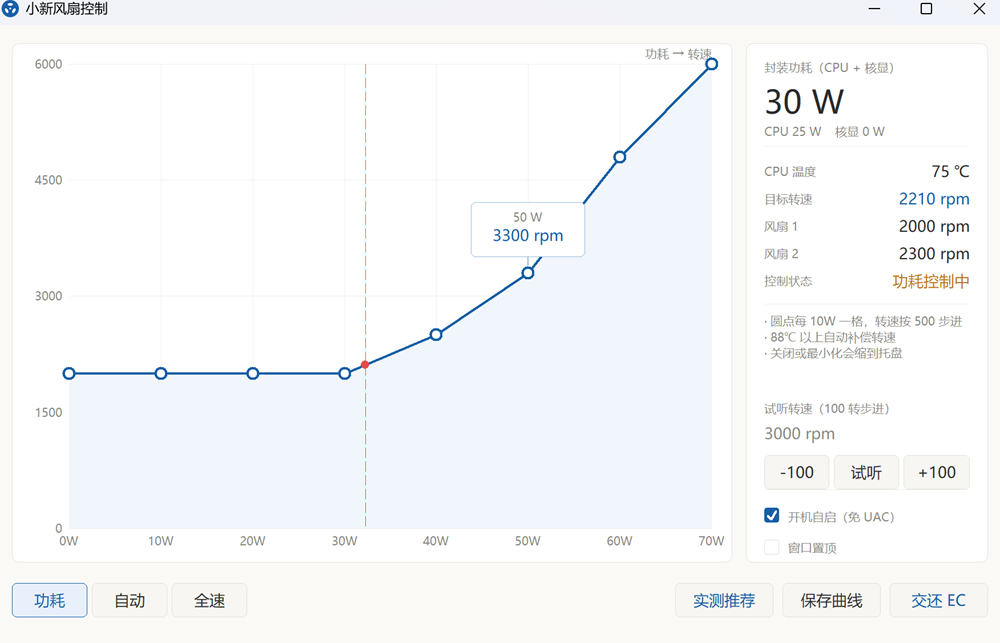
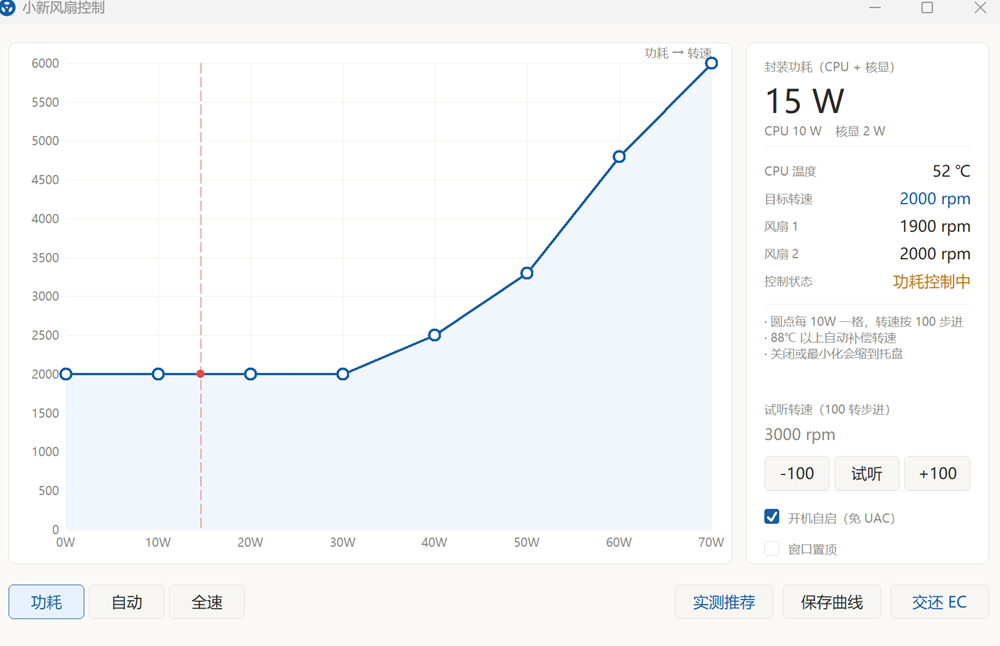
fix: 转速刻度改 500 一格，拖动吸附改 100 一转
之前把两者搞反了：刻度是 1500 一档，吸附却是 500。

- Y 轴从 0/1500/3000/4500/6000 改成每 500 一格，共 13 档，
  对着刻度就能读出大致位置，不用估
- 拖动吸附从 500 改成 100，曲线点可以落在任意百位，
  微调时不再被 500 的台阶卡住
- 旧配置迁移同步改为按 100 吸附
- 界面提示文案与 README 一并更新

验证：40W 点拖到 1203 rpm 的位置，保存后写盘为 1200（若仍是 500 吸附会是 1000）。

diff --git a/src/main.cpp b/src/main.cpp
@@ -111,8 +111,8 @@ static int RpmFromY(int y) {
     int h = L.plot.bottom - L.plot.top;
     if (h <= 0) return 0;
     double v = (double)(L.plot.bottom - y) / h * kRpmMax;
-    // 按 500 转吸附，拖出来的曲线数值都是整百
-    int rpm = (int)(v / 500.0 + 0.5) * 500;
+    // 按 100 转吸附，微调时不用再跟 500 的台阶较劲
+    int rpm = (int)(v / 100.0 + 0.5) * 100;
     if (rpm < 0) rpm = 0;
     if (rpm > kRpmMax) rpm = kRpmMax;
     return rpm;
@@ -211,13 +211,12 @@ static void DrawCurveCard(HDC dc) {
                 L.card.right - S(18), L.card.top + S(16) };
     Text(dc, L"功耗 → 转速", rt, g_fSmall, C_MUTED, DT_RIGHT | DT_TOP | DT_SINGLELINE);
 
-    // Y 轴转速刻度
-    const int rpms[5] = { 0, 1500, 3000, 4500, 6000 };
-    for (int i = 0; i < 5; i++) {
-        int y = PlotY(rpms[i]);
+    // Y 轴转速刻度：500 一格，方便按 100 微调时读位置
+    for (int rpm = 0; rpm <= kRpmMax; rpm += 500) {
+        int y = PlotY(rpm);
         HLine(dc, L.plot.left, L.plot.right, y, C_GRID);
         wchar_t buf[16];
-        swprintf_s(buf, L"%d", rpms[i]);
+        swprintf_s(buf, L"%d", rpm);
         RECT r = { L.card.left + S(6), y - S(8), L.plot.left - S(6), y + S(8) };
         Text(dc, buf, r, g_fSmall, C_MUTED, DT_RIGHT | DT_VCENTER | DT_SINGLELINE);
     }
@@ -418,7 +417,7 @@ static void DrawRightPanel(HDC dc) {
     HLine(dc, x, x + w, y, C_GRID);
     y += S(8);
     RECT rb = { x, y, x + w, y + S(56) };
-    Text(dc, L"· 圆点每 10W 一格，转速按 500 步进\n"
+    Text(dc, L"· 圆点每 10W 一格，转速按 100 步进\n"
              L"· 88℃ 以上自动补偿转速\n"
              L"· 关闭或最小化会缩到托盘",
          rb, g_fSmall, C_MUTED, DT_LEFT | DT_TOP | DT_WORDBREAK);

diff --git a/src/config.cpp b/src/config.cpp
@@ -35,7 +35,7 @@ void ConfigLoad() {
                 for (int i = 0; i < kPPointCount; i++) g_app.pPoints[i] = v[i];
             } else if (n == 7) {
                 // 旧格式是 0/30/40/50/60/65/70 七个不均匀点，按新网格 10W 重采样，
-                // 再按 500 转吸附，跟界面能拖出来的值保持一致
+                // 再按 100 转吸附，跟界面能拖出来的值保持一致
                 static const int oldX[7] = { 0, 30, 40, 50, 60, 65, 70 };
                 for (int i = 0; i < kPPointCount; i++) {
                     int x = kPX[i];
@@ -51,7 +51,7 @@ void ConfigLoad() {
                             }
                         }
                     }
-                    val = (val + 250) / 500 * 500;
+                    val = (val + 50) / 100 * 100;
                     if (val < 0) val = 0;
                     if (val > kRpmMax) val = kRpmMax;
                     g_app.pPoints[i] = val;

diff --git a/README.md b/README.md
@@ -57,7 +57,8 @@ BIOS STCN29WW，Windows 11 26300。
 ```
 
 两点之间线性插值，所以 65 W 落在 4800 与 6000 之间（约 5400）。
-拖动时转速按 **500 转**吸附，30 W 以下锁死在 2000 是硬件能接受的下限——
+Y 轴按 **500 转**一格画刻度，拖动时按 **100 转**吸附——刻度看位置，吸附留给微调。
+30 W 以下锁死在 2000 是硬件能接受的下限——
 这一档覆盖网页、文档、视频，此时封装功耗通常 8–20 W，机器几乎无声。
 
 「升快降慢」是刻意设计的：散热片里存着热量，风扇一转慢温度就反弹，
@@ -65,8 +66,8 @@ BIOS STCN29WW，Windows 11 26300。
 
 ## 功能
 
-- **8 段功耗曲线**（0–70 W，每 10 W 一个点），鼠标拖动即可修改，转速按 500 转吸附。
-  默认 2000 / 2000 / 2000 / 2000 / 2500 / 3300 / 4800 / 6000
+- **8 段功耗曲线**（0–70 W，每 10 W 一个点），鼠标拖动即可修改。Y 轴 500 转一格，
+  拖动按 100 转吸附。默认 2000 / 2000 / 2000 / 2000 / 2500 / 3300 / 4800 / 6000
 - **节点气泡**：拖动或悬停某个点时，旁边浮出小框显示该点的「功耗 + 转速」，
   不用盯着刻度估；贴近左右边界会自动换到另一侧，不会压住 Y 轴数字
 - **「实测推荐」一键回填**：把当前曲线恢复成实测标定值（见上表），
@@ -80,7 +81,7 @@ BIOS STCN29WW，Windows 11 26300。
   短时负载尖峰不会让风扇「起飞」，停载后也不会立刻掉速导致温度反弹
 - **温度兜底**：≥88 ℃ 自动补转速，≥92 ℃ 交还 EC。正常工况下不会触发
 - 配置保存到 `settings.ini`，随 exe 同级。旧版本写下的 7 点曲线（0/30/40/50/60/65/70）
-  会自动重采样到 10 W 网格并按 500 转吸附，不用手动改
+  会自动重采样到 10 W 网格并按 100 转吸附，不用手动改
 - 可缩放窗口、可置顶
 - **托盘常驻**：关闭或最小化只缩到托盘，控制继续生效；托盘图标悬停显示实时温度/转速，
   右键可直接切模式、开关自启、退出
